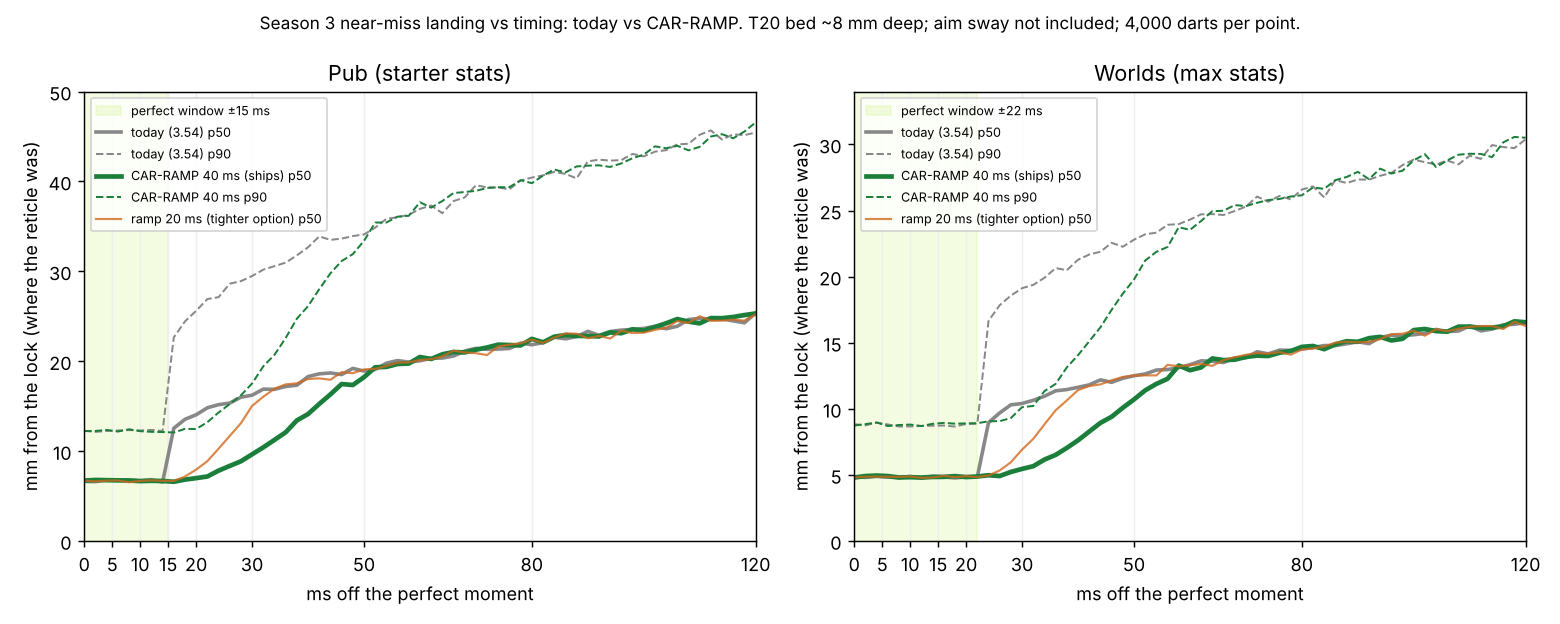
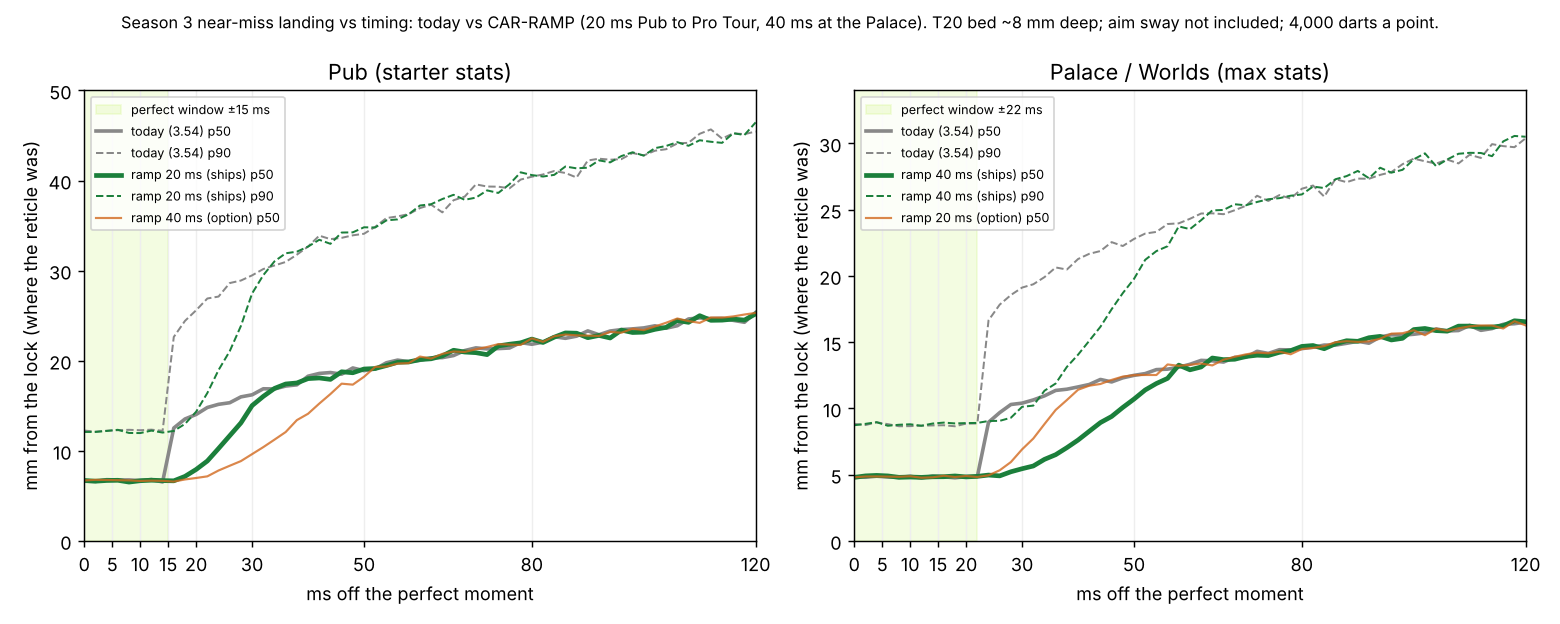
CAR-TUNE: ChatGPT round 1 fixes (snapshot before beginMatch + first-dart test, strict validation, 6 s read timeout, per-match tune logged in s3_result, ring-cue bounds test, baked ramp 20 ms Pub..Pro Tour / 40 Palace from sim)
Claude-Session: https://claude.ai/code/session_01WmQEKW8P3JoD3KeW8VR2JV

diff --git a/tests/s3-tune-cfg.js b/tests/s3-tune-cfg.js
@@ -1,18 +1,19 @@
 // CAR-TUNE config (Overseer 19:45): tops_tune read once at load, baked fallback, per-value validation, frozen per match, Season 3 only.
-//   1 no table / network error: baked values (win 1, ramp 40), src 'baked', tune_fail logged, the game plays
+//   1 no table / network error: baked values (win 1, ramp 20 ms Pub..Pro Tour, 40 at the Palace), src 'baked', tune_fail logged, the game plays
 //   2 valid rows: tier 1 win_scale .9, ramp 30 -> a Club match has the window x.9 and tp.ramp 27 (win_scale scales the ramp too); Pub keeps 1 / 40
 //   3 bad values are dropped one by one (win 3, ramp -5, tier 9, text) -> baked for those, good ones kept
 //   4 a new read mid-match doesn't change that match; the next match uses it
 //   5 Season 2 (?s3=0): no tops_tune request, no ramp, window unchanged
 //   6 one request per page load
+//   2b the first dart of a match uses the frozen values; 7 a read slower than 6 s keeps the baked values
 // usage: node tests/s3-tune-cfg.js [dir]
 const { chromium } = require('playwright'); const path = require('path'); const dir = process.argv[2] || path.resolve(__dirname, '..');
 (async () => {
   const b = await chromium.launch({ args: ['--use-gl=swiftshader', '--allow-file-access-from-files'] }); const f = []; const out = {};
-  async function page(q, body, status) {
+  async function page(q, body, status, delay) {
     const p = await b.newPage(); const errs = []; p.on('pageerror', e => errs.push(e.message)); let reqs = 0;
     await p.route(/jsdelivr|googleapis|gstatic/, r => r.abort());
-    await p.route(/supabase\.co/, r => { if (/tops_tune/.test(r.request().url())) { reqs++; if (body === null) return r.abort(); return r.fulfill({ status: status || 200, contentType: 'application/json', body: JSON.stringify(body) }); } r.abort(); });
+    await p.route(/supabase\.co/, r => { if (/tops_tune/.test(r.request().url())) { reqs++; if (body === null) return r.abort(); if (delay) { setTimeout(() => r.fulfill({ status: 200, contentType: 'application/json', body: JSON.stringify(body) }).catch(() => {}), delay); return; } return r.fulfill({ status: status || 200, contentType: 'application/json', body: JSON.stringify(body) }); } r.abort(); });
     await p.goto('file://' + path.join(dir, 'index.html') + q); await p.waitForTimeout(4500);
     return { p, errs, reqs: () => reqs };
   }
@@ -23,15 +24,19 @@ const { chromium } = require('playwright'); const path = require('path'); const 
   });
   // 1 no table
   { const { p, errs } = await page('?s3=1', [], 404); const r = await probe(p); out.none = r;
-    if (!r.state || r.state.src !== 'baked' || r.club.tune.win !== 1 || r.club.ramp !== 40 || r.pub.ramp !== 40) f.push('1 no table: not baked ' + JSON.stringify(r));
+    if (!r.state || r.state.src !== 'baked' || r.club.tune.win !== 1 || r.club.ramp !== 20 || r.pub.ramp !== 20) f.push('1 no table: not baked ' + JSON.stringify(r));
     out.base = { pub: r.pub.P, club: r.club.P }; if (errs.length) f.push('1 page errors ' + errs[0]); await p.close(); }
   // 2 valid rows + 6 one request
-  { const { p, errs, reqs } = await page('?s3=1', [{ tier: 0, win_scale: 1, ramp_ms: 40 }, { tier: 1, win_scale: 0.9, ramp_ms: 30, updated_at: '2026-11-19T07:00:00Z' }]);
+  { const { p, errs, reqs } = await page('?s3=1', [{ tier: 0, win_scale: 1, ramp_ms: 20 }, { tier: 1, win_scale: 0.9, ramp_ms: 30, updated_at: '2026-11-19T07:00:00Z' }]);
     const r = await probe(p); out.valid = r;
     if (r.state.src !== 'db' || Math.abs(r.club.P - out.base.club * 0.9) > 0.01 || Math.abs(r.club.ramp - 27) > 1e-9) f.push('2 Club not x.9 / ramp 30 ' + JSON.stringify(r.club) + ' base ' + out.base.club);
-    if (Math.abs(r.pub.P - out.base.pub) > 0.001 || r.pub.ramp !== 40) f.push('2 Pub changed ' + JSON.stringify(r.pub));
+    if (Math.abs(r.pub.P - out.base.pub) > 0.001 || r.pub.ramp !== 20) f.push('2 Pub changed ' + JSON.stringify(r.pub));
     const card = await p.evaluate(() => { career().tier = 1; const a = TOPS_FXLINE('rh', 20, 20); career().tier = 0; const b = TOPS_FXLINE('rh', 20, 20); return { club: a, pub: b, w: TOPS_WIN(0) }; });
     if (!card.club.includes(String(Math.round(card.w * 0.9 * 10) / 10)) || !card.pub.includes(String(card.w))) f.push('2 Rhythm card does not show the tier window ' + JSON.stringify(card));
+    // 2b the first dart of the match uses the frozen values (ChatGPT P1-1)
+    const fd = await p.evaluate(() => { career().tier = 1; beginMatch({ mode: 'career', tier: 1, p0: 'P', oppName: 'X', oppAvg: 50, legs: 1 }); S.bull = null; S.busy = false; S.view = 0; S.breathe = false; S.cur = 0; S.noPullUntil = 0; V.walking = () => false;
+      const en = effNerves; effNerves = () => 0; try { startPull('key'); } finally { effNerves = en; } const r = { P: S.lockTp && S.lockTp.P, ramp: S.lockTp && S.lockTp.ramp }; S.pulling = false; S.done = true; return r; });
+    if (Math.abs(fd.P - out.base.club * 0.9) > 0.01 || Math.abs(fd.ramp - 27) > 1e-9) f.push('2b first dart does not use the match values ' + JSON.stringify(fd));
     // 4 frozen per match
     const fr = await p.evaluate(async () => { career().tier = 1; beginMatch({ mode: 'career', tier: 1, p0: 'P', oppName: 'X', oppAvg: 50, legs: 1 }); const before = S.tune.win;
       const _f = window.fetch; window.fetch = async () => new Response(JSON.stringify([{ tier: 1, win_scale: 1.2, ramp_ms: 50 }]), { status: 200 }); try { await TOPS_TUNE.load(); } finally { window.fetch = _f; }
@@ -39,16 +44,20 @@ const { chromium } = require('playwright'); const path = require('path'); const 
     if (fr.before !== 0.9 || fr.during !== 0.9 || fr.next !== 1.2) f.push('4 not frozen per match ' + JSON.stringify(fr));
     if (reqs() !== 1) f.push('6 requests at load: ' + reqs()); if (errs.length) f.push('2 page errors ' + errs[0]); await p.close(); }
   // 3 bad values
-  { const { p } = await page('?s3=1', [{ tier: 1, win_scale: 3, ramp_ms: 30 }, { tier: 2, win_scale: 0.8, ramp_ms: -5 }, { tier: 9, win_scale: 0.7, ramp_ms: 10 }, { tier: 'x', win_scale: 'a' }, { tier: 3, win_scale: 'abc', ramp_ms: 'z' }]);
+  { const { p } = await page('?s3=1', [{ tier: 1, win_scale: 3, ramp_ms: 30 }, { tier: 2, win_scale: 0.8, ramp_ms: -5 }, { tier: 9, win_scale: 0.7, ramp_ms: 10 }, { tier: 'x', win_scale: 'a' }, { tier: 3, win_scale: 'abc', ramp_ms: 'z' }, { tier: 4, win_scale: null, ramp_ms: '' }, { tier: 5, win_scale: true, ramp_ms: false }, { tier: 1, win_scale: 0.6, ramp_ms: 5 }, { tier: '6', win_scale: '1.2', ramp_ms: '50' }, null]);
     const st = await p.evaluate(() => TOPS_TUNE.state()); out.bad = st;
-    const want = { win: [1, 1, 0.8, 1, 1, 1, 1], ramp: [40, 30, 40, 40, 40, 40, 40] };
+    const want = { win: [1, 1, 0.8, 1, 1, 1, 1.2], ramp: [20, 30, 20, 20, 20, 20, 50] }; // tier 1's duplicate row is ignored; numeric strings count; null/''/booleans don't
     if (JSON.stringify(st.win) !== JSON.stringify(want.win) || JSON.stringify(st.ramp) !== JSON.stringify(want.ramp)) f.push('3 validation ' + JSON.stringify(st));
     await p.close(); }
+  // 7 a read slower than the 6 s timeout leaves the baked values (and a late answer is ignored)
+  { const { p } = await page('?s3=1', [{ tier: 1, win_scale: 0.5, ramp_ms: 0 }], 200, 9000); await p.waitForTimeout(7000);
+    const st = await p.evaluate(() => TOPS_TUNE.state()); if (st.src !== 'baked' || st.win[1] !== 1) f.push('7 slow read changed the values ' + JSON.stringify(st));
+    await p.waitForTimeout(3000); const st2 = await p.evaluate(() => TOPS_TUNE.state()); if (st2.src !== 'baked') f.push('7 late answer applied after the timeout'); await p.close(); }
   // 5 Season 2
   { const { p, reqs } = await page('?s3=0', [{ tier: 1, win_scale: 0.5, ramp_ms: 100 }]); const r = await probe(p); out.s2 = r;
     if (reqs() !== 0) f.push('5 Season 2 requested tops_tune'); if (r.club.ramp !== undefined || r.club.tune) f.push('5 Season 2 has a ramp/tune ' + JSON.stringify(r.club));
     await p.close(); }
   await b.close();
   if (f.length) { console.log('FAIL\n- ' + f.join('\n- ') + '\n' + JSON.stringify(out)); process.exit(1); }
-  console.log(`PASS: no table -> baked (win 1, ramp 40); Club row x.9 / 30 ms applied (window x.9, ramp 30 x .9 = 27 ms) (P ${out.base.club} -> ${out.valid.club.P}), Pub untouched; the Rhythm card shows the tier's window; bad values dropped one by one; frozen per match, next match takes the new read; Season 2 makes no request and has no ramp; one request per load`);
+  console.log(`PASS: no table -> baked (win 1, ramp 20 ms, Palace 40); Club row x.9 / 30 ms applied (window x.9, ramp 30 x .9 = 27 ms) (P ${out.base.club} -> ${out.valid.club.P}), Pub untouched; the Rhythm card shows the tier's window; bad values dropped one by one (null, '', booleans, duplicates, bad tiers); the first dart uses the match's values; a read slower than 6 s keeps the baked values; frozen per match, next match takes the new read; Season 2 makes no request and has no ramp; one request per load`);
 })();

diff --git a/tc/s3.js b/tc/s3.js
@@ -64,7 +64,7 @@
       S.earned=r.prize||0;if(r.up&&r.up.to>was)S.after='promo';if(r.up&&r.up.champion)S.after='champion';}
     S.s3res=r;persist();setTimeout(()=>{try{lbPost();}catch(e){}},1500);
     const me0=S.p[0],op0=S.p[1],lv=id=>{try{return window.TOPS_LofT?Math.round(TOPS_LofT(id)*75+20):null;}catch(e){return null;}};
-    L('s3_result',{avg:me0&&me0.darts?+(me0.pts/me0.darts*3).toFixed(1):null,oavg:op0&&op0.darts?+(op0.pts/op0.darts*3).toFixed(1):null,rh:lv('rh'),ct:lv('ct'),sc:lv('sc'),id:S.s3.id,round:S.s3.round,won:S.won?1:0,done:r.done?1:0,fin:r.fin||null,prize:r.prize||0,pts:r.pts||0,up:r.up?(r.up.to!=null?r.up.to:'champ'):null,bank:c.bank,level:c.circuit.level});
+    L('s3_result',{tw:S.tune?S.tune.win:null,tr:S.tune?+S.tune.ramp.toFixed(1):null,tsrc:S.tune?S.tune.src:null,tat:S.tune?S.tune.at:null,avg:me0&&me0.darts?+(me0.pts/me0.darts*3).toFixed(1):null,oavg:op0&&op0.darts?+(op0.pts/op0.darts*3).toFixed(1):null,rh:lv('rh'),ct:lv('ct'),sc:lv('sc'),id:S.s3.id,round:S.s3.round,won:S.won?1:0,done:r.done?1:0,fin:r.fin||null,prize:r.prize||0,pts:r.pts||0,up:r.up?(r.up.to!=null?r.up.to:'champ'):null,bank:c.bank,level:c.circuit.level});
     try{window.dispatchEvent(new CustomEvent('tops:s3',{detail:r}));}catch(e){}
   };}
 
@@ -96,19 +96,30 @@
   // Read once at game load from tops_tune (players can read it, only the Overseer's service role can write it); the values below are
   // the baked fallback. beginMatch freezes the values for that match, so a late read or a change applies from the next match.
   // win_scale is the one difficulty lever per tier: it scales the perfect window and the near-miss ramp together (the whole forgiving
-  // zone), so a 10% step moves results about as much as Hayden expects. ramp_ms sets the shape (Hayden 19:42: gentle for ~40 ms past the window).
+  // zone), so a 10% step moves results about as much as Hayden expects. ramp_ms sets the shape (Hayden 19:42: gentle past the window). Baked from the sim (mid-skill profile, entry->exit win %, target 50->65-70):
+  // ramp 0 (3.54) Pub 46->60, Club 38->48, DPNZ 44->70; ramp 40 Pub 67->85, Club 63->76, DPNZ 75->91; ramp 20 Pub 59->71. So 20 ms up to the
+  // Pro Tour, and 40 at the Palace, where it gives the ~100 average Hayden wants (97->103). The table moves any tier without a release.
   // Each value is checked on its own (win_scale .5-1.5, ramp_ms 0-120, tier 0-6); anything else keeps the baked value.
-  const TUNE_BAKED=Object.freeze({win:Object.freeze([1,1,1,1,1,1,1]),ramp:Object.freeze([40,40,40,40,40,40,40])});
+  const TUNE_BAKED=Object.freeze({win:Object.freeze([1,1,1,1,1,1,1]),ramp:Object.freeze([20,20,20,20,20,20,40])});
   const TUNE={win:TUNE_BAKED.win.slice(),ramp:TUNE_BAKED.ramp.slice(),src:'baked',at:null,rows:0};
-  const okW=v=>isFinite(v)&&v>=.5&&v<=1.5,okR=v=>isFinite(v)&&v>=0&&v<=120;
-  async function tuneLoad(){try{const rows=await rest('tops_tune?select=tier,win_scale,ramp_ms,updated_at&order=tier.asc');if(!Array.isArray(rows))throw new Error('not a list');
-      const w=TUNE_BAKED.win.slice(),r=TUNE_BAKED.ramp.slice();let n=0,last=null;
-      for(const x of rows){const t=Number(x&&x.tier);if(!Number.isInteger(t)||t<0||t>6)continue;const ws=Number(x.win_scale),rm=Number(x.ramp_ms);if(okW(ws))w[t]=ws;if(okR(rm))r[t]=rm;n++;if(x.updated_at&&(!last||x.updated_at>last))last=x.updated_at;}
+  /* ChatGPT P2-1: only real numbers (or numeric strings, as PostgREST sends numeric) count; null, '', booleans and duplicate tiers are refused */
+  const num=v=>(typeof v==='number')?v:(typeof v==='string'&&v.trim()!==''&&!isNaN(v))?Number(v):NaN;
+  const okW=v=>Number.isFinite(v)&&v>=.5&&v<=1.5,okR=v=>Number.isFinite(v)&&v>=0&&v<=120;
+  /* ChatGPT P2-2: the read gives up after 6 s (baked values stay); every match records which values it used (s3_result tw/tr/tsrc/tat) */
+  const TUNE_TIMEOUT=6000;
+  const restT=async(path)=>{const ac=typeof AbortController==='function'?new AbortController():null;const tm=setTimeout(()=>{try{ac&&ac.abort();}catch(e){}},TUNE_TIMEOUT);
+    try{const r=await fetch(LB.url+'/rest/v1/'+path,{headers:{'apikey':LB.key,'Authorization':'Bearer '+LB.key},signal:ac?ac.signal:undefined});if(!r.ok)throw new Error(path.split('?')[0]+' '+r.status);return await r.json();}finally{clearTimeout(tm);}};
+  async function tuneLoad(){try{const rows=await restT('tops_tune?select=tier,win_scale,ramp_ms,updated_at&order=tier.asc');if(!Array.isArray(rows))throw new Error('not a list');
+      const w=TUNE_BAKED.win.slice(),r=TUNE_BAKED.ramp.slice();let n=0,last=null;const seen=new Set();
+      for(const x of rows){if(!x||typeof x!=='object')continue;const t=num(x.tier);if(!Number.isInteger(t)||t<0||t>6||seen.has(t))continue;seen.add(t);const ws=num(x.win_scale),rm=num(x.ramp_ms);if(okW(ws))w[t]=ws;if(okR(rm))r[t]=rm;n++;if(typeof x.updated_at==='string'&&(!last||x.updated_at>last))last=x.updated_at;}
       if(!n)throw new Error('no rows');TUNE.win=w;TUNE.ramp=r;TUNE.src='db';TUNE.at=last;TUNE.rows=n;L('tune_load',{win:w,ramp:r,at:last});
     }catch(e){L('tune_fail',{m:String(e&&e.message||e).slice(0,80)});}}
   const tierIx=t=>{t=Number(t);return Number.isInteger(t)&&t>=0&&t<=6?t:0;};
-  window.TOPS_TUNE={snap(t){t=tierIx(t);return Object.freeze({tier:t,win:TUNE.win[t],ramp:TUNE.ramp[t]*TUNE.win[t],src:TUNE.src});},state:()=>JSON.parse(JSON.stringify(TUNE)),baked:TUNE_BAKED,load:tuneLoad};
+  window.TOPS_TUNE={snap(t){t=tierIx(t);return Object.freeze({tier:t,win:TUNE.win[t],ramp:TUNE.ramp[t]*TUNE.win[t],src:TUNE.src,at:TUNE.at});},state:()=>JSON.parse(JSON.stringify(TUNE)),baked:TUNE_BAKED,load:tuneLoad};
   if(on())tuneLoad();
-  if(typeof beginMatch==='function'){const _bmt=beginMatch;beginMatch=function(o){const r=_bmt.apply(this,arguments);try{const s=SS();if(s)s.tune=(on()&&o&&o.mode==='career')?TOPS_TUNE.snap(s.tier&&TIERS.indexOf(s.tier)>=0?TIERS.indexOf(s.tier):((career()&&career().tier)|0)):null;}catch(e){}return r;};}
+  /* ChatGPT P1-1: the snapshot is taken before the game builds the match (from the match's own tier), then attached as soon as S exists;
+     throw parameters are first computed at the first press (startPull), after this. Every career entry (Circuit, hub, money match) passes mode 'career'. */
+  if(typeof beginMatch==='function'){const _bmt=beginMatch;beginMatch=function(o){let snap=null;try{if(on()&&o&&o.mode==='career'){const t=Number.isInteger(o.tier)?o.tier:((career()&&career().tier)|0);snap=TOPS_TUNE.snap(t);}}catch(e){}
+    const r=_bmt.apply(this,arguments);try{const s=SS();if(s)s.tune=snap;}catch(e){}return r;};}
   window.TOPS_BESTLEG=BESTLEG;window.TOPS_HISTORY=HISTORY;
 })();

diff --git a/tests/car-ramp.js b/tests/car-ramp.js
@@ -4,6 +4,8 @@
 //   3 never harsher than 3.54: at every timing the p50 is <= the 3.54 near-miss (+7% sampling noise, 3,000 darts a point); past the ramp it is the 3.54 one
 //   4 the drawn ring is unchanged (players time off it)
 //   5 Season 2 (?s3=0): no ramp, the 3.54 landing exactly (same p50 as ramp 0)
+//   6 (ChatGPT P1-3) a win_scale nudge of up to ±20% moves the drawn ring's timing cue by no more than 20% of the window (≤4.4 ms, under one
+//     60 Hz frame) and leaves it within 1.5 mm from 20 ms past the window on: the ring keeps showing the real window, so it moves with it
 // usage: node tests/car-ramp.js [dir]
 const { chromium } = require('playwright'); const path = require('path'); const dir = process.argv[2] || path.resolve(__dirname, '..');
 (async () => {
@@ -20,6 +22,7 @@ const { chromium } = require('playwright'); const path = require('path'); const 
           beginMatch({ mode: 'career', tier, p0: 'P', oppName: 'X', oppAvg: 50, legs: 1 }); const tp = Object.assign({}, throwParams()); const t0 = Object.assign({}, tp, { ramp: 0 });
           const r = { P: tp.P, ramp: tp.ramp, perfect: p50(tp, 0), grid: [], ringSame: true };
           for (let e = 1; e <= 120 - tp.P; e += 2) { const dt = -(tp.P + e); r.grid.push({ e, now: p50(tp, dt), old: p50(t0, dt) }); if (ringR(dt, tp) !== ringR(dt, t0)) r.ringSame = false; }
+          r.ringScale = {}; for (const sc of [0.8, 0.9, 1.1, 1.2]) { const t2 = Object.assign({}, tp, { P: tp.P * sc }); let far = 0, edgeShift = Math.abs(tp.P * (sc - 1)); for (let dt = -300; dt <= 300; dt++) { if (Math.abs(dt) >= Math.max(tp.P, t2.P) + 20) far = Math.max(far, Math.abs(ringR(dt, t2) - ringR(dt, tp))); } r.ringScale[sc] = { far: +far.toFixed(2), edgeShift: +edgeShift.toFixed(1) }; }
           o[name] = r; S.done = true;
         }
       } finally { effNerves = en; }
@@ -35,9 +38,10 @@ const { chromium } = require('playwright'); const path = require('path'); const 
     for (let i = 1; i < r.grid.length; i++) if (r.grid[i].now < r.grid[i - 1].now * 0.94) f.push(`${k}: spread drops at +${r.grid[i].e} ms`);
     r.grid.forEach(g => { if (g.now > g.old * 1.07 + 0.3) f.push(`${k}: harsher than 3.54 at +${g.e} ms (${g.now.toFixed(1)} vs ${g.old.toFixed(1)})`); if (g.e > r.ramp + 1 && Math.abs(g.now - g.old) > g.old * 0.07 + 0.3) f.push(`${k}: past the ramp but not 3.54 at +${g.e} ms`); });
     if (!r.ringSame) f.push(`${k}: the drawn ring changed`);
+    Object.entries(r.ringScale).forEach(([sc, v]) => { if (v.far > 1.5) f.push(`${k}: win_scale ${sc} moves the drawn ring ${v.far} mm away from the window edge`); if (v.edgeShift > 0.2 * r.P + 1e-9 || v.edgeShift > 16.7) f.push(`${k}: win_scale ${sc} shifts the ring's edge ${v.edgeShift} ms`); });
     const q = s2[k]; if (q.ramp) f.push(`${k}: Season 2 has a ramp`); q.grid.forEach(g => { if (Math.abs(g.now - g.old) > g.old * 0.07 + 0.3) f.push(`${k}: Season 2 landing differs from 3.54 at +${g.e} ms`); });
   }
   const pick = (r, e) => (r.grid.find(g => g.e >= e) || {}).now;
   if (f.length) { console.log('FAIL\n- ' + [...new Set(f)].slice(0, 12).join('\n- ')); process.exit(1); }
-  console.log(`PASS: Pub p50 perfect ${s3.Pub.perfect.toFixed(1)} mm -> +1 ms ${s3.Pub.grid[0].now.toFixed(1)} (3.54 ${s3.Pub.grid[0].old.toFixed(1)}), +15 ms ${pick(s3.Pub, 15).toFixed(1)} (3.54 ${pick(s3.Pub, 15).toFixed ? s3.Pub.grid.find(g => g.e >= 15).old.toFixed(1) : ''}), past ${s3.Pub.ramp} ms = 3.54; Worlds perfect ${s3.Worlds.perfect.toFixed(1)} -> +1 ms ${s3.Worlds.grid[0].now.toFixed(1)}; steady growth, never harsher than 3.54, drawn ring unchanged, Season 2 = 3.54`);
+  console.log(`PASS: Pub p50 perfect ${s3.Pub.perfect.toFixed(1)} mm -> +1 ms ${s3.Pub.grid[0].now.toFixed(1)} (3.54 ${s3.Pub.grid[0].old.toFixed(1)}), +15 ms ${pick(s3.Pub, 15).toFixed(1)} (3.54 ${pick(s3.Pub, 15).toFixed ? s3.Pub.grid.find(g => g.e >= 15).old.toFixed(1) : ''}), past ${s3.Pub.ramp} ms = 3.54; Worlds perfect ${s3.Worlds.perfect.toFixed(1)} -> +1 ms ${s3.Worlds.grid[0].now.toFixed(1)}; steady growth, never harsher than 3.54, drawn ring unchanged, win_scale ±20% moves the ring cue ≤${Math.max(...Object.values(s3.Pub.ringScale).map(v=>v.edgeShift),...Object.values(s3.Worlds.ringScale).map(v=>v.edgeShift))} ms at the edge and ≤${Math.max(...Object.values(s3.Pub.ringScale).map(v=>v.far),...Object.values(s3.Worlds.ringScale).map(v=>v.far))} mm beyond it, Season 2 = 3.54`);
 })();
